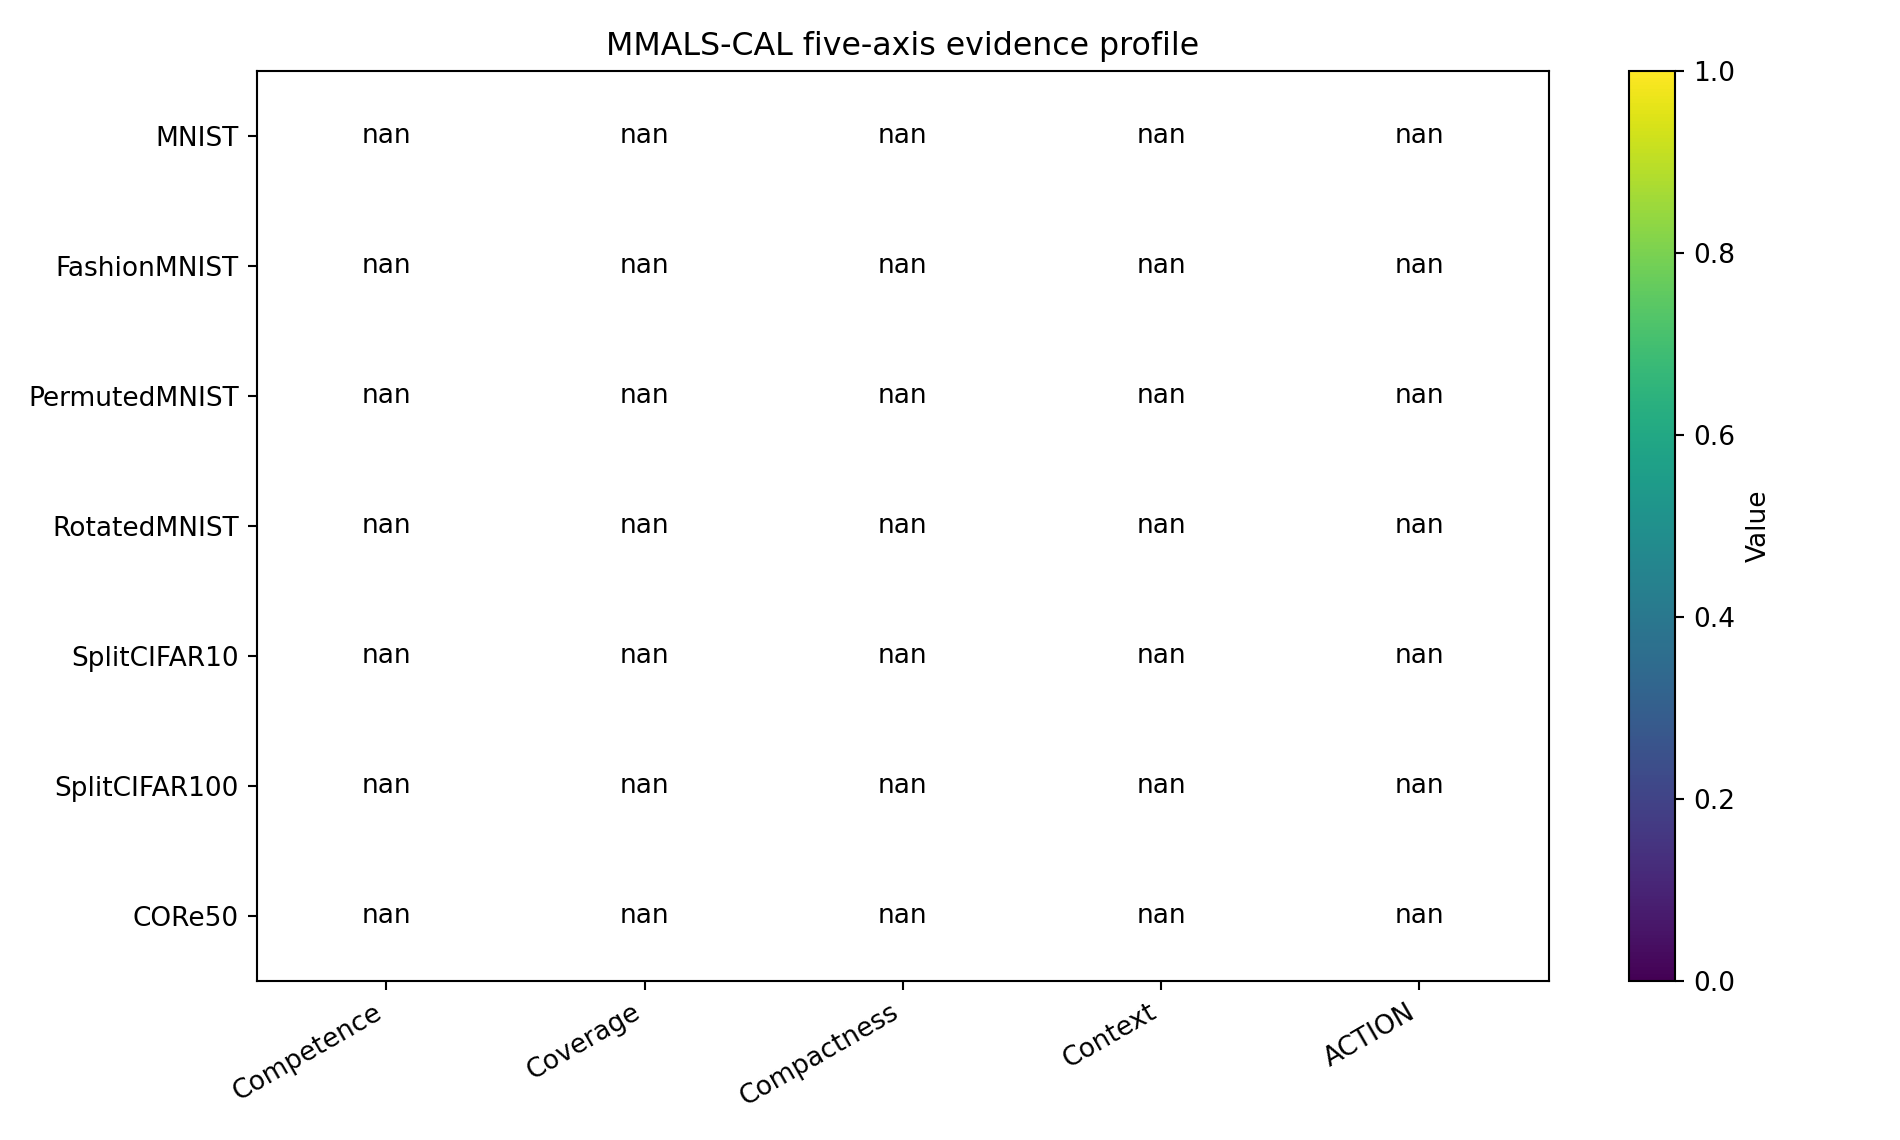
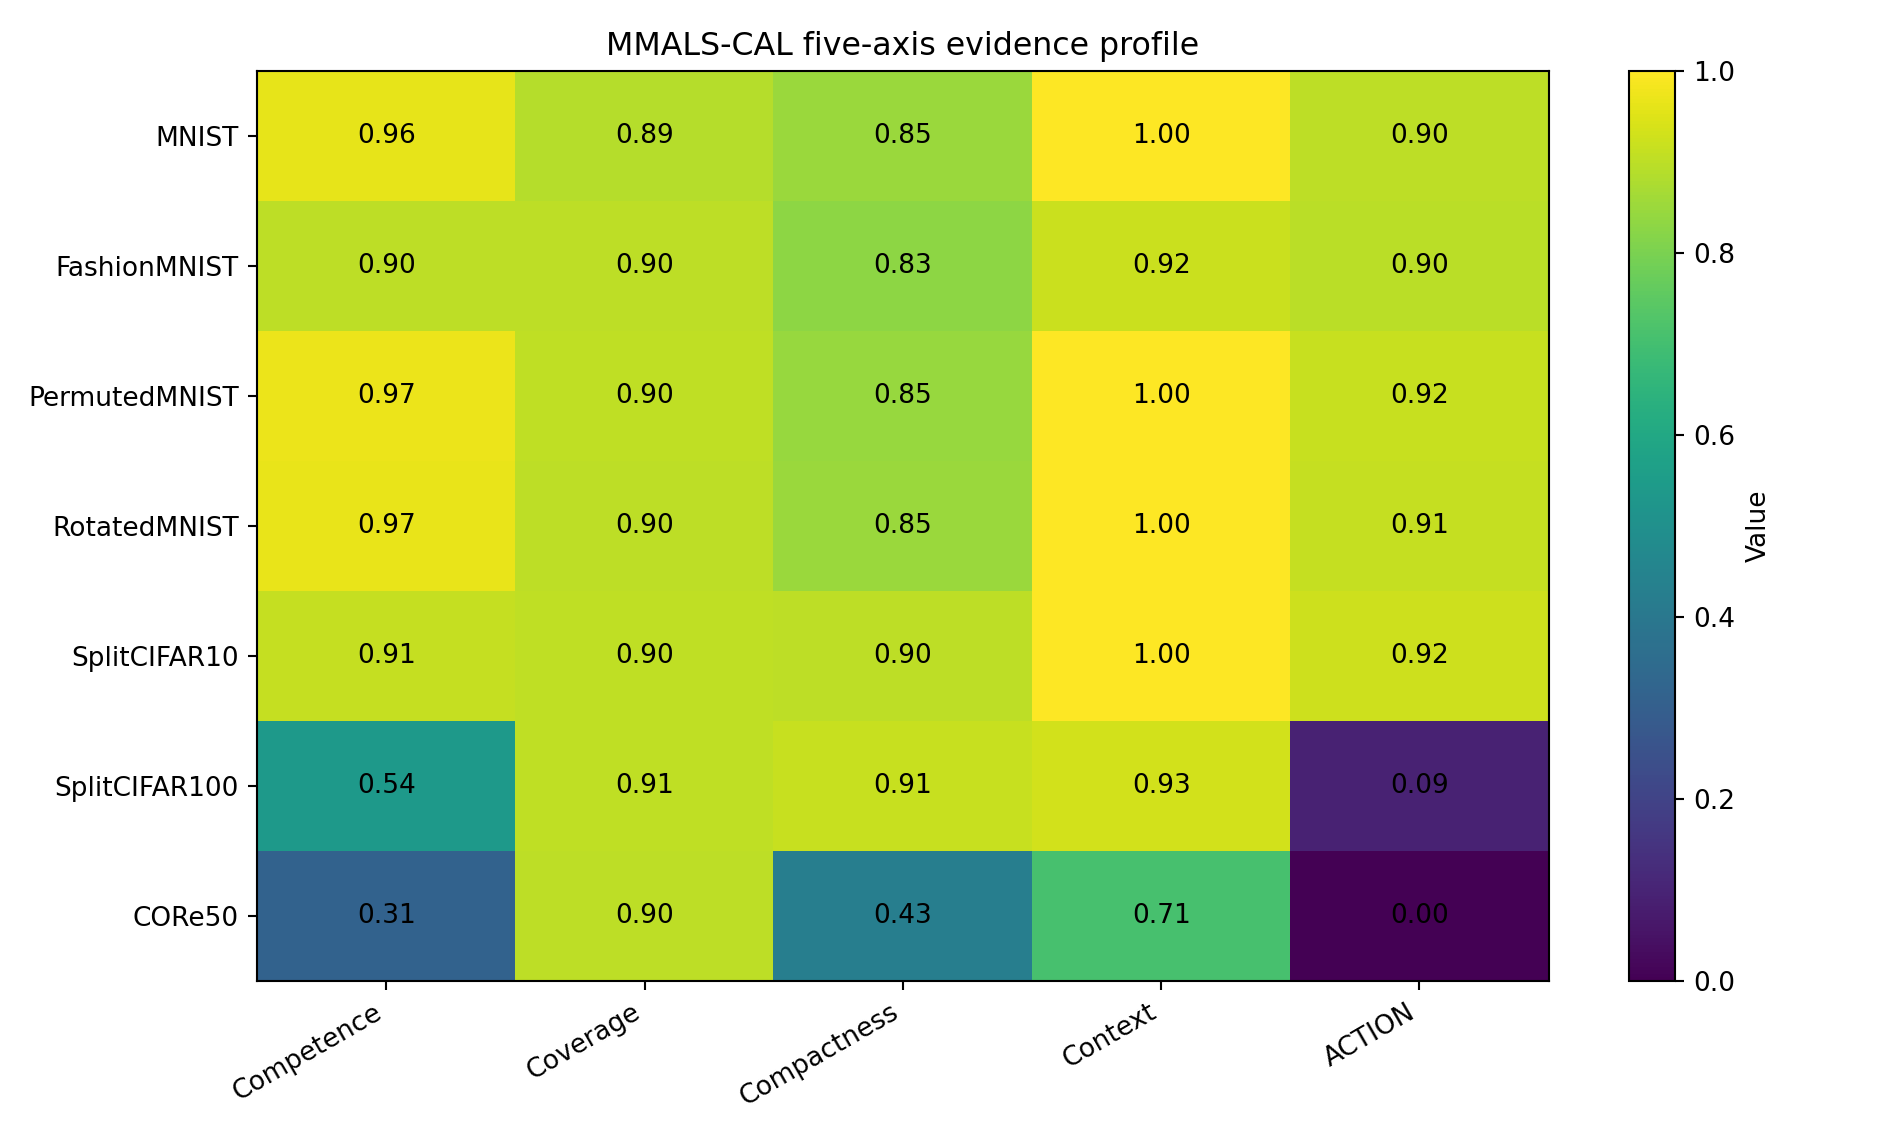
Hope to fix corrutped files (pdf)

diff --git a/main.tex b/main.tex
@@ -1,0 +1,191 @@
+\documentclass[10pt]{article}
+\usepackage[margin=0.82in]{geometry}
+\usepackage{amsmath,amssymb,booktabs,graphicx,array,tabularx,longtable,float,microtype,enumitem,xcolor,hyperref,fancyhdr}
+\usepackage[T1]{fontenc}
+\usepackage{lmodern}
+\hypersetup{colorlinks=true,linkcolor=blue!45!black,citecolor=blue!45!black,urlcolor=blue!45!black,pdftitle={MMALS-CAL v0.3.2},pdfauthor={Guillaume Harbonnier}}
+\pagestyle{fancy}\fancyhf{}\lhead{MMALS-CAL v0.3.2}\rhead{Harbonnier}\cfoot{\thepage}
+\newcommand{\mmalscal}{\textsc{MMALS-CAL}}
+\newcommand{\action}{\texttt{ACTION}}
+\newcommand{\nodecision}{\texttt{NO\_DECISION}}
+\title{\bfseries MMALS-CAL: Regime-Aware Conformal Evidence Verification for Continual-Learning Systems\\\large Version 0.3.2 - Offline Cross-Benchmark Evidence Synthesis}
+\author{Guillaume Harbonnier\\Independent MMALS Research Program}
+\date{June 2026}
+\begin{document}
+\maketitle
+
+\begin{abstract}
+Continual-learning evaluations emphasize accuracy, retention, and forgetting, but a deployed system must answer an additional question: is its current prediction supported by evidence that is valid for the present regime and sufficiently precise to justify action? We introduce \mmalscal{}, a standalone companion verification layer within the MMALS program. It separates predictive competence, context recognition, marginal coverage, prediction-set compactness, and operational actionability. We execute a harmonized offline replay over seven final-checkpoint selected-policy traces comprising 250,000 observations, five seeds per benchmark, and five calibration strategies. Fresh oracle-regime calibration reaches aggregate coverage between 0.8889 and 0.9062 for a 0.90 target, while singleton action rates range from 0.15\% on CORe50 to 92.43\% on SplitCIFAR10. Regime recognition remains a distinct requirement: on CORe50, coverage decreases from 0.9011 under fresh oracle-regime calibration to 0.7255 when the same regime-specific calibrators are selected by inferred context, a 17.6 percentage-point loss. SplitCIFAR10, SplitCIFAR100, and CORe50 use frozen small-CNN feature representations, so these results are conditional on those upstream representations. The singleton gate is a conservative baseline for autonomous single-label actionability, not a universal deployment policy. \mmalscal{} is not formal verification or a proof of universal safety; it is a fail-closed statistical evidence-verification framework that makes assumptions, local failures, abstention, and prohibited claims explicit.
+\end{abstract}
+
+\noindent\textbf{Keywords:} continual learning, conformal prediction, calibration, regime shift, context inference, selective prediction, abstention, evidence verification.
+
+\section{Introduction}
+A continual-learning system can retain earlier tasks and still be unsafe to use. It may apply an old confidence rule after a distribution shift, recall a calibrator associated with the wrong context, or obtain nominal coverage only by returning prediction sets too broad to support a useful decision. Accuracy and forgetting do not establish whether the evidence supporting the next action is current, local, and sufficiently precise.
+
+\mmalscal{} turns the statement
+\begin{quote}
+``I have learned, I recognize the context, and I do---or do not---have enough fresh evidence to act.''
+\end{quote}
+into four separately testable obligations. The central contribution is the five-axis decomposition: competence, coverage, compactness, context, and ACTION.
+
+\section{Origin and Standalone Positioning}
+The MMALS Chronicle describes a mycelium-inspired continual-learning architecture with inferred context, specialized hosts, routing, and route-function memory. The host organisms correspond to the trees; the fungal system is the mediating mycelial network; the mycorrhizal interface is the exchange relationship between hosts and fungal medium. The analogy motivates distributed specialization but supplies no statistical guarantee.
+
+\mmalscal{} is a companion in provenance but standalone in exposition. It does not train MMALS. It consumes exported probabilities, labels, task/regime identifiers used for offline analysis, and inferred-context evidence, then asks whether the uncertainty rule associated with the active situation remains valid and actionable.
+
+\section{Position in the Verification Framework}
+The wider evidence framework separates:
+\begin{description}[leftmargin=1.45in,style=nextline]
+\item[Metric Evaluator] Computes accuracy, forgetting, coverage, set size, context quality, and action rate.
+\item[Protocol Verifier] Checks provenance, no leakage, deterministic selection, and comparable units.
+\item[MMALS-CAL] Tests regime-aware calibration, compactness, and ACTION/NO-DECISION behavior.
+\item[Claim Verifier] Maps conclusions to supported, unsupported, or prohibited statements.
+\end{description}
+The first, second, and fourth layers verify the scientific work. \mmalscal{} additionally prepares the logic required by a future runtime evidence controller. Version 0.3.2 remains an offline final-checkpoint replay.
+
+\section{Component Status}
+\begin{table}[H]
+\centering\small
+\begin{tabularx}{\linewidth}{l l X}
+\toprule
+Component & v0.3.2 status & Evidence and remaining gap\\
+\midrule
+A. CUSUM/BOCPD regime detection & Absent online & Regime labels and exported context are replayed; no autonomous stream detector.\\
+B. No-leakage buffer & Implemented offline & Deterministic 25/75 reserved-calibration/deployment split independent of scores.\\
+C. Regime-aware conformal quantile & Implemented offline & Five strategies, including stale, oracle, inferred-bucket, and context-selected recall.\\
+D. ACTION/NO-DECISION gate & Operational but simplified & Singleton gate is a conservative common baseline, not a final deployment policy.\\
+\bottomrule
+\end{tabularx}
+\end{table}
+
+\section{Method}
+\subsection{The conformal calibration quantile}
+A quantile is a threshold below which a chosen fraction of sorted values falls. \mmalscal{} sorts calibration nonconformity scores
+\begin{equation}
+s(x,y)=1-p(y\mid x).
+\end{equation}
+For $n$ calibration scores, error level $\alpha$, and sorted scores $s_{(1)}\leq\cdots\leq s_{(n)}$, the finite-sample corrected index and quantile are
+\begin{equation}
+k=\min\left(n,\left\lceil(n+1)(1-\alpha)\right\rceil\right),\qquad \hat q=s_{(k)}.
+\end{equation}
+The prediction set is
+\begin{equation}
+\Gamma(x)=\left\{\, y:1-p(y\mid x)\leq\hat q \,\right\}.
+\end{equation}
+A larger $\hat q$ usually improves coverage by admitting more labels, but can reduce compactness and actionability. The finite-sample marginal guarantee relies on exchangeability between calibration and deployment observations; it is not automatically a conditional guarantee for every task, class, seed, or time interval.
+
+\subsection{No-leakage offline protocol}
+Each seed-task-class group is partitioned deterministically into 25\% reserved calibration and 75\% deployment. Selection is independent of probabilities, predictions, correctness, and context confidence. The release contains all seven compressed filtered traces and the complete replay implementation.
+
+\subsection{Five calibration strategies}
+We compare one global calibrator per seed; a T0 quantile reused as stale evidence; fresh oracle-regime calibration; calibration in inferred-context buckets; and oracle regime quantiles selected by inferred context. The last strategy isolates the damage caused by recalling a valid calibrator under the wrong regime.
+
+\subsection{Action gate}
+The common research rule is
+\begin{equation}
+\text{decision}(x)=\begin{cases}\action,&|\Gamma(x)|=1,\\\nodecision,&\text{otherwise}.\end{cases}
+\end{equation}
+This is a conservative baseline for autonomous single-label actionability. It is not the maximum achievable action rate, a universal product policy, or a formal lower bound without specifying the admissible policy family and its costs.
+
+\section{Experimental Scope}
+The synthesis covers MNIST Robust, FashionMNIST Robust, PermutedMNIST Robust, RotatedMNIST Robust, SplitCIFAR10, SplitCIFAR100, and CORe50. It contains 250,000 selected-policy observations: 62,500 reserved for calibration and 187,500 for deployment. Five seeds and five calibration strategies are evaluated per benchmark.
+
+SplitCIFAR10, SplitCIFAR100, and CORe50 use frozen small-CNN feature representations inherited from the source continual-learning runs. The results therefore characterize the combined upstream representation, learner, and calibration layer; they do not establish backbone invariance or end-to-end raw-pixel continual learning.
+
+\section{Expected Behavior of an Evidence-Verification Tool}
+An effective verifier should not make every input actionable. It should reveal at least four distinct outcomes:
+\begin{enumerate}[leftmargin=*]
+\item a competent model with fresh, compact evidence and frequent action;
+\item a competent model with stale evidence and undercoverage;
+\item nominal coverage obtained through broad, non-actionable sets;
+\item a valid calibrator invalidated by wrong regime recall.
+\end{enumerate}
+It should also fail closed: absent or insufficient evidence should produce \nodecision{} and a recorded reason rather than an unsupported certainty claim.
+
+\section{Cross-Benchmark Results}
+\begin{table*}[t]
+\centering\small
+\caption{Seven-benchmark profile under fresh oracle-regime calibration. Worst is minimum seed-task coverage.}
+\begin{tabular}{lrrrrrrr}
+\toprule
+Benchmark & Top-1 & Context & Coverage & Worst & Mean set & ACTION & Acc. if ACTION\\
+\midrule
+MNIST & 0.9642 & 1.0000 & 0.8889 & 0.8283 & 0.90 & 89.95\% & 98.82\% \\
+FashionMNIST & 0.9010 & 0.9200 & 0.9001 & 0.8433 & 1.03 & 89.83\% & 93.58\% \\
+PermutedMNIST & 0.9698 & 1.0000 & 0.9029 & 0.8617 & 0.92 & 91.69\% & 98.41\% \\
+RotatedMNIST & 0.9678 & 1.0000 & 0.9007 & 0.8217 & 0.91 & 91.32\% & 98.64\% \\
+SplitCIFAR10 & 0.9140 & 1.0000 & 0.9045 & 0.8617 & 1.00 & 92.43\% & 94.01\% \\
+SplitCIFAR100 & 0.5356 & 0.9329 & 0.9062 & 0.8533 & 8.53 & 9.44\% & 96.09\% \\
+CORe50 & 0.3149 & 0.7105 & 0.9011 & 0.8733 & 28.67 & 0.15\% & 63.66\% \\
+\bottomrule
+\end{tabular}
+\end{table*}
+
+\begin{figure}[H]\centering\includegraphics[width=.88\linewidth]{figures/five_axis_evidence_heatmap.png}\caption{Five-axis profile: competence, coverage, compactness, context, and ACTION.}\end{figure}
+
+Fresh oracle-regime calibration approaches the aggregate 0.90 target across all seven benchmarks. The operational meaning differs sharply. SplitCIFAR100 reaches 0.9062 coverage using an average set of 8.53 labels and acts on 9.44\% of observations. CORe50 reaches 0.9011 coverage using an average set of 28.67 labels out of 50 and acts on only 0.15\%.
+
+\begin{figure}[H]\centering\includegraphics[width=.88\linewidth]{figures/competence_vs_actionability.png}\caption{Competence and singleton actionability are related but not interchangeable.}\end{figure}
+\begin{figure}[H]\centering\includegraphics[width=.88\linewidth]{figures/coverage_vs_compactness.png}\caption{Coverage may be restored without restoring compactness.}\end{figure}
+
+\subsection{Global averages hide local failures}
+Aggregate coverage can appear acceptable while individual seed-regime cells under-cover severely. Worst-cell reporting is therefore part of the evidence contract, not an optional diagnostic.
+\begin{figure}[H]\centering\includegraphics[width=.88\linewidth]{figures/worst_regime_coverage.png}\caption{Worst seed-task coverage under global, fresh oracle, and context-selected oracle calibration.}\end{figure}
+
+\subsection{Stale evidence has two failure modes}
+Reusing the T0 quantile causes undercoverage on several MNIST-family runs and SplitCIFAR10. On SplitCIFAR100 and CORe50 it becomes highly conservative, retaining broad sets and little actionability. Staleness is a mismatch, not simply overconfidence.
+\begin{figure}[H]\centering\includegraphics[width=.88\linewidth]{figures/fresh_vs_stale_coverage.png}\caption{Fresh regime calibration versus stale T0 calibration.}\end{figure}
+
+\subsection{Wrong context recalls wrong evidence}
+On CORe50, coverage decreases from 0.9011 under fresh oracle-regime calibration to 0.7255 when the same regime-specific calibrators are selected using inferred context, a 17.6 percentage-point loss. A statistically valid calibrator is not safe when recalled for the wrong situation.
+\begin{figure}[H]\centering\includegraphics[width=.88\linewidth]{figures/context_accuracy_vs_recall_loss.png}\caption{Context errors translate into calibration-recall loss.}\end{figure}
+
+\section{FashionMNIST RC2O Consistency Patch}
+The original v0.3 synthesis used an older RC2M-alpha trace. Version 0.3.1 introduced the RC2O-v1 trace; version 0.3.2 preserves that correction in a fully reproducible release. Final average accuracy rises from 0.8872 to 0.9010, context accuracy from 0.88 to 0.92, mean set size falls from 1.0906 to 1.0269, and singleton action rises from 86.48\% to 89.83\%, while fresh coverage remains approximately 0.90.
+
+\begin{quote}
+\textbf{RC2O does not primarily win on coverage---coverage is imposed by calibration---but on predictive competence, context recognition, prediction-set compactness, and action rate.}
+\end{quote}
+
+\section{What the Results Say About MMALS-CAL}
+The evidence supports five conclusions: fresh calibration repairs coverage rather than competence; valid calibration can be invalidated by wrong regime recall; global coverage can hide local undercoverage; stale evidence can under-cover or become non-actionably conservative; and actionability is separate from coverage.
+
+These conclusions also define what \mmalscal{} is: an empirical and statistical evidence-verification layer that exposes disagreement between learning, regime recognition, uncertainty, and action. It is not a learned replacement for the backbone and not a universal safety proof.
+
+\section{Engineering After the PhD}
+A production implementation should remain a fail-closed evidence shell around MMALS. It requires a label-free early-warning detector, delayed-label confirmation, an immutable calibration registry, strict temporal separation of detection/calibration/validation windows, a conformal set builder, a cost-aware gate, and an evidence ledger. The online chain should be
+\begin{equation}
+\text{detect}\rightarrow\text{close}\rightarrow\text{buffer without leakage}\rightarrow\text{recalibrate}\rightarrow\text{validate}\rightarrow\text{reopen}.
+\end{equation}
+CUSUM should be an interpretable baseline and BOCPD a probabilistic comparator. TPUT/STRAT-Q may later optimize wrong-action, abstention, evidence, latency, and retention costs while keeping the conformal constraint explicit.
+
+\section{For a 12-Year-Old}
+Imagine a puzzle team with different specialists. The MMALS mycelial network helps send each puzzle to useful specialists. MMALS-CAL is the referee. It asks whether the team learned the puzzle, recognized its type, still has a fresh confidence rule, and has one clear answer. The conformal quantile is a line drawn across earlier ``surprise scores.'' Answers that are not more surprising than the line enter a candidate set. One candidate can mean ACTION; several candidates mean ``I am not sure yet.'' Saying ``one of 29 labels'' can be honest but not useful enough to act.
+
+\section{Limitations}
+This release is an offline replay of exported final-checkpoint traces. It does not implement online label-free CUSUM or BOCPD, delayed labels, streaming role assignment, live calibration expiry, or automatic gate reopening. Context values are exported by source runs and must still be audited for independence from explicit task identifiers. Coverage is marginal, not conditional for every subgroup or time interval.
+
+SplitCIFAR10, SplitCIFAR100, and CORe50 use frozen small-CNN feature representations. Low actionability may therefore reflect limitations of both the upstream representation and the continual learner; the present paper does not establish backbone sensitivity or invariance. Finally, the singleton gate is a conservative cross-benchmark baseline for autonomous single-label actionability, not a universal deployment policy or the maximum achievable action rate.
+
+\section{Reproducibility}
+Unlike v0.3.1, the v0.3.2 GitHub package contains the complete replay code and all seven compressed filtered traces. The original multi-hundred-megabyte evidence packages are not required for numerical reproduction and are omitted from Git. Exact filenames, checksums, and blank user-supplied Drive/archive location fields are provided for future provenance recovery.
+
+\section{Roadmap}
+The next stage is \textbf{MMALS-CAL v0.4: Online Regime Freshness and Change-Detection Harness}. It should compare fixed calibration, periodic recalibration, oracle change points, label-free CUSUM, delayed-label CUSUM, BOCPD, and adaptive conformal baselines. Evaluation must include false alarms, detection delay, coverage during transition, contamination, time to restored coverage, ACTION, wrong-action rate, and abstention cost.
+
+\section{Conclusion}
+\mmalscal{} adds a missing evidential layer to continual learning. It asks not only whether a system learned, but whether it recognized the situation, whether its uncertainty rule remains valid, whether the resulting set is compact, and whether action is justified. Calibration can control marginal coverage; it cannot manufacture competence, repair a wrong context, or turn a broad set into a useful decision. A trustworthy system must be able to say both ``I can act'' and ``I do not yet have enough fresh evidence.''
+
+\begin{thebibliography}{99}
+\bibitem{vovk2005} V. Vovk, A. Gammerman, and G. Shafer. \emph{Algorithmic Learning in a Random World}. Springer, 2005.
+\bibitem{angelopoulos2021} A. Angelopoulos and S. Bates. A gentle introduction to conformal prediction and distribution-free uncertainty quantification. arXiv:2107.07511, 2021.
+\bibitem{sadinle2019} M. Sadinle, J. Lei, and L. Wasserman. Least ambiguous set-valued classifiers with bounded error levels. JASA, 2019.
+\bibitem{gibbs2021} I. Gibbs and E. Candes. Adaptive conformal inference under distribution shift. NeurIPS, 2021.
+\bibitem{gibbs2022} I. Gibbs and E. Candes. Conformal inference for online prediction with arbitrary distribution shifts. arXiv:2208.08401, 2022.
+\bibitem{bhatnagar2023} A. Bhatnagar et al. Improved online conformal prediction via strongly adaptive online learning. ICML, 2023.
+\bibitem{adams2007} R. Adams and D. MacKay. Bayesian online changepoint detection. arXiv:0710.3742, 2007.
+\bibitem{page1954} E. Page. Continuous inspection schemes. Biometrika, 1954.
+\bibitem{thomas2019} P. Thomas et al. Preventing undesirable behavior of intelligent machines. Science, 2019.
+\end{thebibliography}
+\end{document}

diff --git a/README.md b/README.md
@@ -1,72 +1,1 @@
-# MMALS-CAL v0.3.2
-
-## Regime-Aware Conformal Evidence Verification for Continual-Learning Systems
-
-MMALS-CAL is a standalone companion verification layer within the broader MMALS research program. The MMALS Chronicle describes the learning architecture - inferred context, routing, host specialization, and route-function memory. MMALS-CAL does not train MMALS. It verifies whether evidence exported by a final-checkpoint run is calibrated, appropriate for the current regime, compact enough to support action, and reported without overclaiming.
-
-> **Fresh calibration restores coverage; it does not manufacture competence.**
-
-## Release status
-
-Version 0.3.2 is an **offline, final-checkpoint, seven-benchmark replay**. It is not yet an online change-point detector or a runtime adaptive calibration controller.
-
-The release includes:
-
-- the complete replay implementation for all five calibration strategies;
-- all seven compressed filtered traces under `data/raw/`;
-- deterministic 25% calibration / 75% deployment splitting;
-- derived metrics, figures, protocol checks, and claim checks;
-- an executed reproduction notebook;
-- a compiled arXiv-style article and LaTeX source;
-- explicit documentation of the future online components A-D.
-
-## Reproduce the complete analysis
-
-```bash
-python -m venv .venv
-# Linux/macOS: source .venv/bin/activate
-# Windows: .venv\Scripts\activate
-pip install -r requirements.txt
-
-python scripts/run_cross_benchmark_replay.py \
-  --config configs/cross_benchmark_v0.3.2.json \
-  --output-dir results/reproduced
-
-python scripts/reproduce_figures.py \
-  --results-dir results/reproduced \
-  --output-dir figures/reproduced
-
-python scripts/verify_release.py
-PYTHONPATH=src pytest -q
-```
-
-The replay is portable because the seven selected-policy traces are included. The much larger original MMALS evidence archives are not included; they are listed by exact filename and checksum in `data/external_source_locations.csv`. The final column is intentionally blank so a Drive or archive path can be added later without changing the scientific results.
-
-## Main evidence
-
-- Fresh oracle-regime calibration reaches approximately the 0.90 aggregate marginal-coverage target on all seven benchmarks.
-- On CORe50, coverage falls from **0.9011** under fresh oracle-regime calibration to **0.7255** when those calibrators are selected by inferred context: a **17.6 percentage-point loss**.
-- SplitCIFAR100 obtains 0.9062 fresh coverage but only 9.44% singleton ACTION.
-- CORe50 obtains 0.9011 fresh coverage with a mean 28.67-label set and only 0.15% singleton ACTION.
-- The singleton gate is a conservative baseline for autonomous single-label actionability, not a universal deployment policy or the maximum achievable action rate.
-
-## Repository map
-
-- `src/mmals_cal/`: reusable conformal, split, replay, metrics, and verification code
-- `scripts/`: complete CLI replay, figure reproduction, release verification, extraction helpers
-- `configs/`: portable experiment configuration
-- `data/raw/`: seven compressed selected-policy traces
-- `data/`: selected-trace and external-source registries
-- `results/`: release evidence tables
-- `figures/`: reproduced figures
-- `paper/`: compiled article and LaTeX source
-- `docs/`: conceptual, engineering, child-friendly, and reproducibility documentation
-- `tests/`: unit and release tests
-
-## Scientific boundary
-
-MMALS-CAL is empirical and statistical evidence verification, not formal verification and not a proof of universal safety. Its coverage statement is marginal and depends on exchangeability between calibration and deployment observations. SplitCIFAR10, SplitCIFAR100, and CORe50 use frozen small-CNN feature representations inherited from the source runs, so their results are conditional on those representations.
-
-## Citation
-
-See `CITATION.cff` and the article in `paper/main.pdf`.
+Compile with `latexmk -pdf -interaction=nonstopmode -halt-on-error main.tex`. The compiled release article is `main.pdf`.